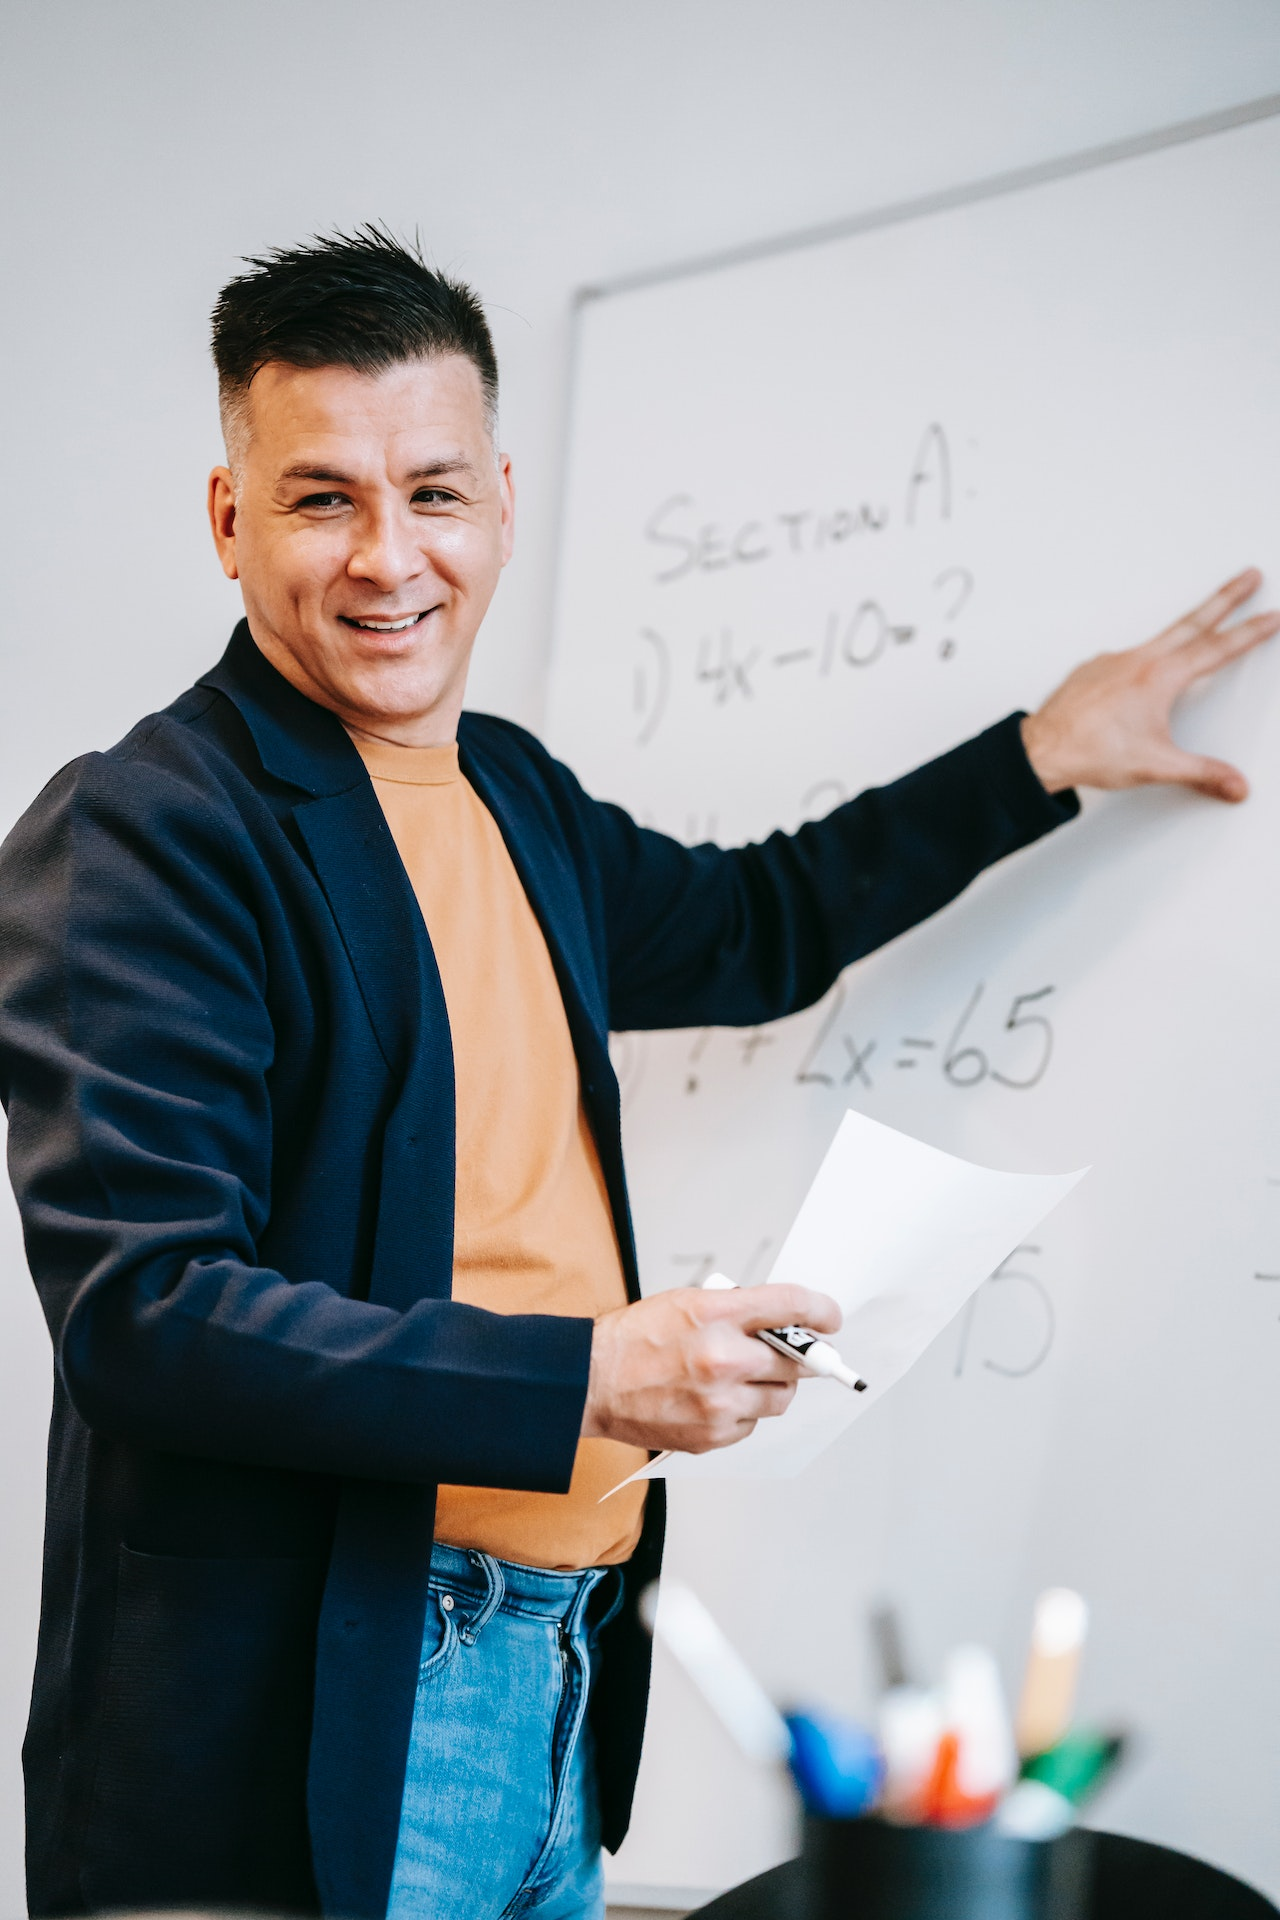
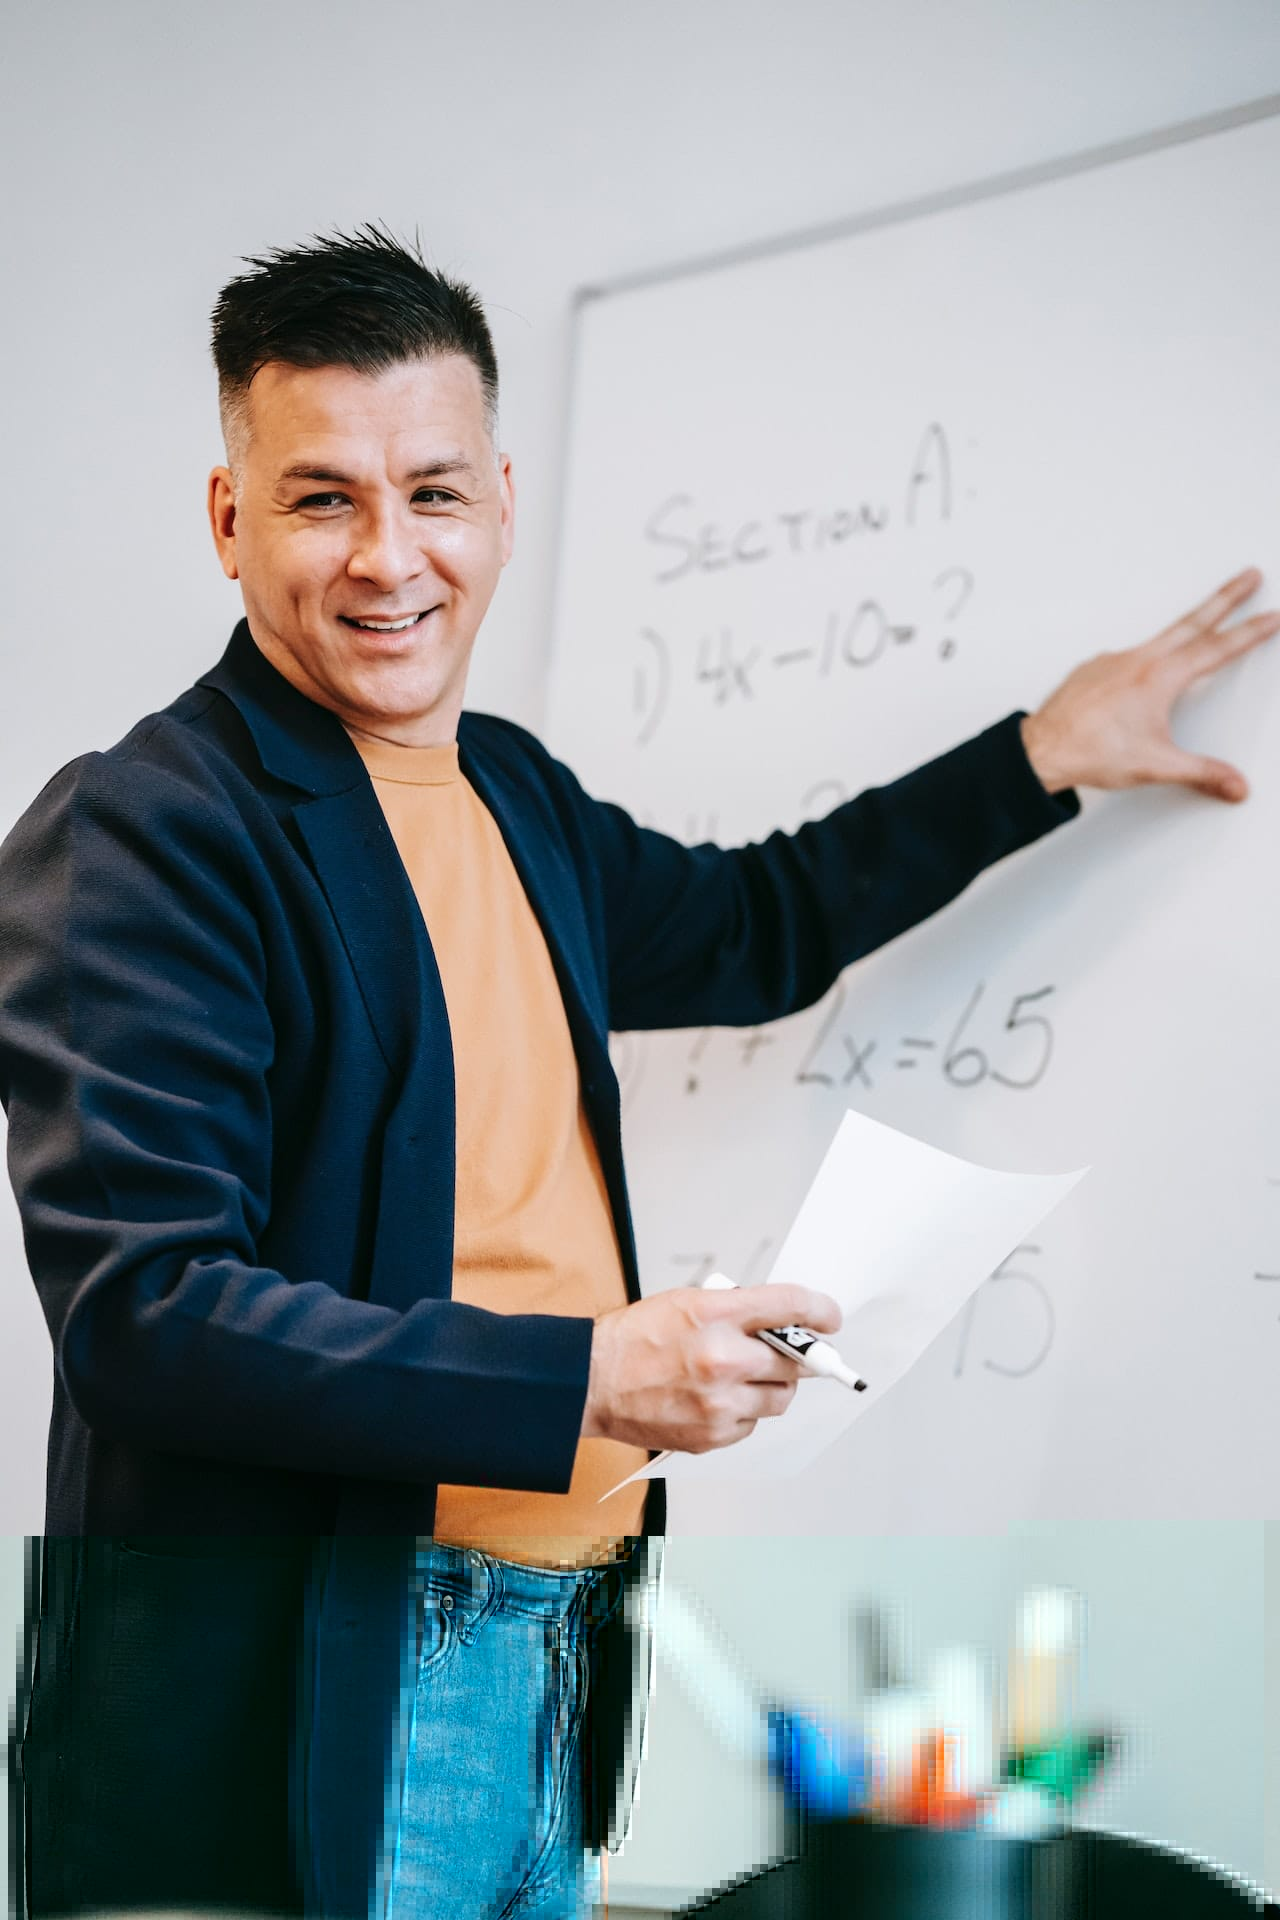
Image optimization
- Delete references to images that are not displayed
- Delete the images that are no longer referenced or displayed
- Optimize AI images with 80% lossless compression

diff --git a/includes/settings/class-kadence-blocks-settings.php b/includes/settings/class-kadence-blocks-settings.php
@@ -1236,25 +1236,21 @@ class Kadence_Blocks_Settings {
 				'slug'  => 'kadence/rowlayout',
 				'name'  => __( 'Row Layout', 'kadence-blocks' ),
 				'desc'  => __( 'Create rows with nested blocks either in columns or as a container. Give style to your rows with background, overlay, padding, etc.', 'kadence-blocks' ),
-				'image' => KADENCE_BLOCKS_URL . 'includes/settings/img/rowlayout.jpg',
 			),
 			'kadence/form'        => array(
 				'slug'  => 'kadence/form',
 				'name'  => __( 'Form', 'kadence-blocks' ),
 				'desc'  => __( 'Create a contact form or marketing form and style it within the block editor.', 'kadence-blocks' ),
-				'image' => KADENCE_BLOCKS_URL . 'includes/settings/img/form-block.jpg',
 			),
 			'kadence/advancedgallery' => array(
 				'slug'  => 'kadence/advancedgallery',
 				'name'  => __( 'Advanced Gallery', 'kadence-blocks' ),
 				'desc'  => __( 'Photo galleries, carousels, and sliders! Enable custom links, captions, and more. Plus, you can select image sizes.', 'kadence-blocks' ),
-				'image' => KADENCE_BLOCKS_URL . 'includes/settings/img/gallery-block.jpg',
 			),
 			'kadence/advancedbtn' => array(
 				'slug'  => 'kadence/advancedbtn',
 				'name'  => __( 'Advanced Button', 'kadence-blocks' ),
 				'desc'  => __( 'Create an advanced button or a row of buttons. Style each one including hover controls plus you can use an icon and display them side by side', 'kadence-blocks' ),
-				'image' => KADENCE_BLOCKS_URL . 'includes/settings/img/btn.jpg',
 			),
 			'kadence/lottie'        => array(
 				'slug'  => 'kadence/lottie',
@@ -1265,43 +1261,36 @@ class Kadence_Blocks_Settings {
 				'slug'  => 'kadence/icon',
 				'name'  => __( 'Icon', 'kadence-blocks' ),
 				'desc'  => __( 'Choose from over 1500+ SVG Icons to add into your page and style the size, colors, background, border, etc.', 'kadence-blocks' ),
-				'image' => KADENCE_BLOCKS_URL . 'includes/settings/img/icon.jpg',
 			),
 			'kadence/spacer'      => array(
 				'slug'  => 'kadence/spacer',
 				'name'  => __( 'Spacer/Divider', 'kadence-blocks' ),
 				'desc'  => __( 'Easily create a divider and determine the space around it or just create some space in your content.', 'kadence-blocks' ),
-				'image' => KADENCE_BLOCKS_URL . 'includes/settings/img/spacer.jpg',
 			),
 			'kadence/advancedheading'      => array(
 				'slug'  => 'kadence/advancedheading',
 				'name'  => __( 'Advanced Text', 'kadence-blocks' ),
 				'desc'  => __( 'Create a heading or paragraph and define sizes for desktop, tablet and mobile along with font family, colors, etc.', 'kadence-blocks' ),
-				'image' => KADENCE_BLOCKS_URL . 'includes/settings/img/heading.jpg',
 			),
 			'kadence/tabs'      => array(
 				'slug'  => 'kadence/tabs',
 				'name'  => __( 'Tabs', 'kadence-blocks' ),
 				'desc'  => __( 'Create custom vertical or horizontal tabs with advanced styling controls. Each tab content is an empty canvas able to contain any other blocks.', 'kadence-blocks' ),
-				'image' => KADENCE_BLOCKS_URL . 'includes/settings/img/tabs.jpg',
 			),
 			'kadence/infobox'      => array(
 				'slug'  => 'kadence/infobox',
 				'name'  => __( 'Info Box', 'kadence-blocks' ),
 				'desc'  => __( 'Create a box containing an icon or image and, optionally, a title, description, and learn more text. Style static and hover separately.', 'kadence-blocks' ),
-				'image' => KADENCE_BLOCKS_URL . 'includes/settings/img/infobox.jpg',
 			),
 			'kadence/accordion'      => array(
 				'slug'  => 'kadence/accordion',
 				'name'  => __( 'Accordion', 'kadence-blocks' ),
 				'desc'  => __( 'Create beautiful accordions! Each pane can contain any other block, customize title styles, content background, and borders.', 'kadence-blocks' ),
-				'image' => KADENCE_BLOCKS_URL . 'includes/settings/img/accordion.jpg',
 			),
 			'kadence/iconlist'      => array(
 				'slug'  => 'kadence/iconlist',
 				'name'  => __( 'Icon List', 'kadence-blocks' ),
 				'desc'  => __( 'Add beautiful icons to your lists and make them more engaging. Over 1500 icons to choose from and unlimited styles.', 'kadence-blocks' ),
-				'image' => KADENCE_BLOCKS_URL . 'includes/settings/img/iconlist.jpg',
 			),
 			'kadence/tableofcontents'      => array(
 				'slug'  => 'kadence/tableofcontents',
@@ -1322,7 +1311,6 @@ class Kadence_Blocks_Settings {
 				'slug'  => 'kadence/testimonials',
 				'name'  => __( 'Testimonials', 'kadence-blocks' ),
 				'desc'  => __( 'Create confidence in your brand or product by showing off beautiful unique testimonials, add as a carousel or a grid.', 'kadence-blocks' ),
-				'image' => KADENCE_BLOCKS_URL . 'includes/settings/img/testimonials.jpg',
 			),
 		);
 		return apply_filters( 'kadence_blocks_enable_disable_array', $blocks );
